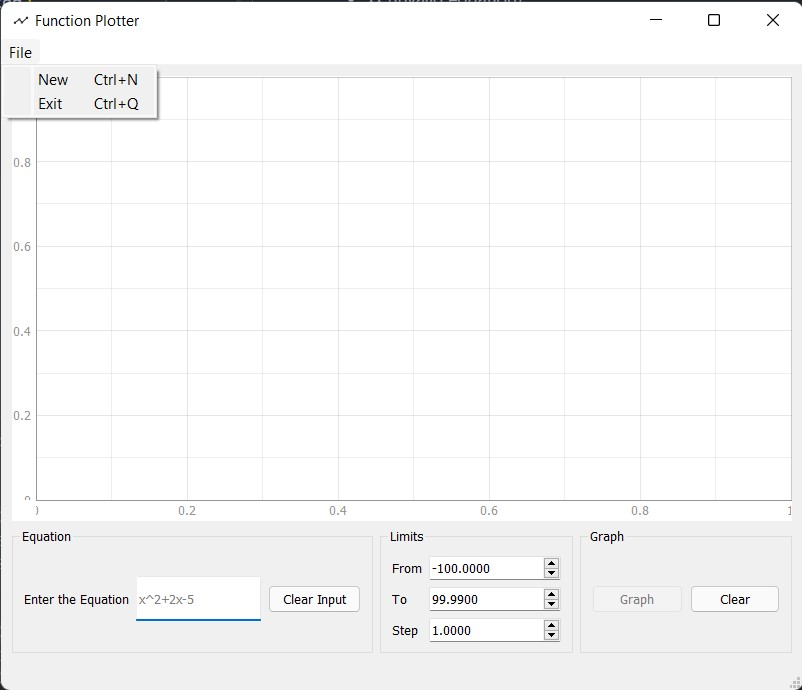
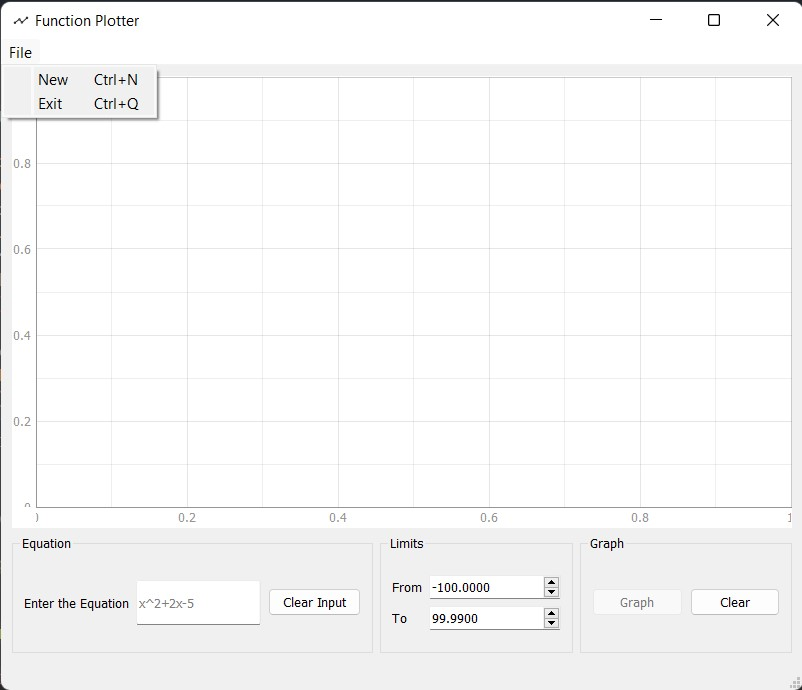
refactor: change README Docs for the Updated UI

diff --git a/README.md b/README.md
@@ -69,7 +69,3 @@ Invalid Equations Popup Window
 Invalid Range Because of From being greater than to
 
 ![Invalid Range](docs/InvalidRange.jpg)
-
-Invalid Step. When (Step > To - From) then, no point will be drawn
-
-![Invalid Step](docs/InvalidStep.jpg)
